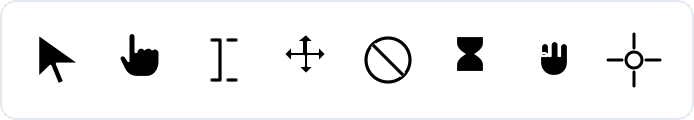
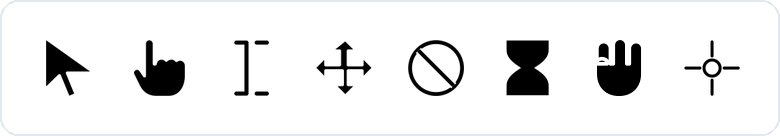
fix: README帯PNG最終形（サイズ正規化・symbols/cursors修正）
Lucideは線色明示SVGからラスタ。brandsはbbox正規化で大きさを揃え、
symbolsの点潰れを解消した。

diff --git a/readme/README.md b/readme/README.md
@@ -1,0 +1,10 @@
+# readme/
+
+GitHub README 用の**焼き込み画像**（PNG）。
+
+| ファイル | 内容 |
+|----------|------|
+| `on-white-*.png` | 白背景 + カラー/線画アイコン帯 |
+| `concept.svg` / `layers.svg` / `usage.svg` | 図メインの説明 |
+
+再生成: macOS の `qlmanage` + Pillow（`scripts/render_readme_strips.py` があればそれを使う）。
